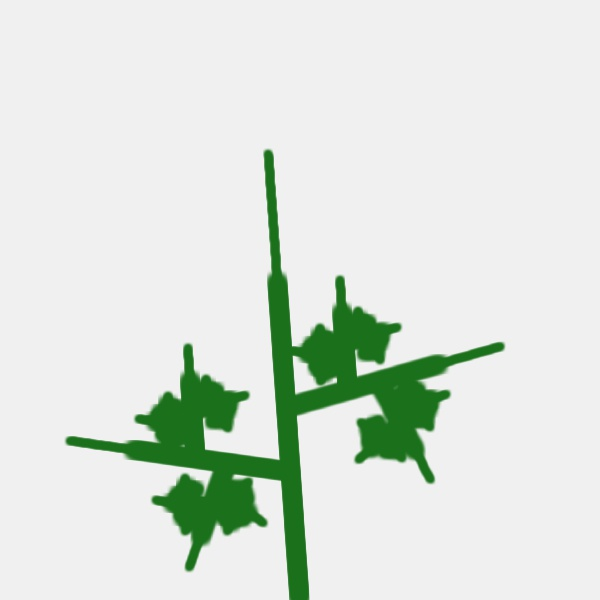
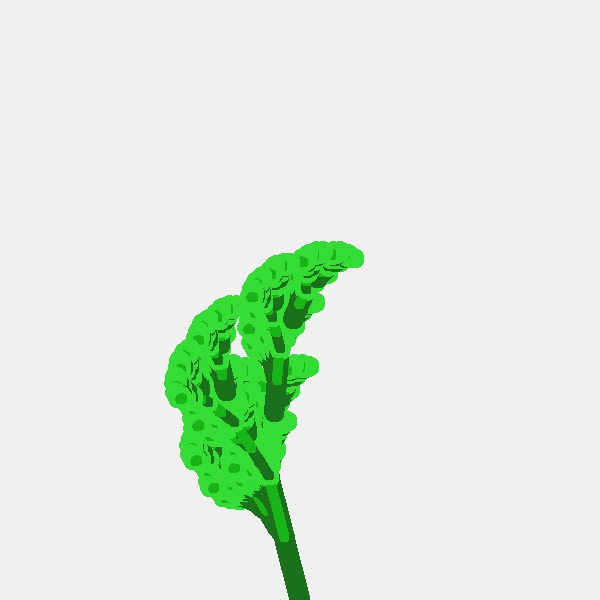
dynamically created brushes instead of png

Changed region(s): [[0.09, 0.24, 0.84, 0.99], [0.51, 0.96, 0.54, 0.99], [0.48, 0.99, 0.51, 1.0]]

diff --git a/site/htdocs/the-world/herbarium/index.php b/site/htdocs/the-world/herbarium/index.php
@@ -120,19 +120,24 @@ function drawPlant() {
 
 // load brush images:
 
-$brushSizes = 2;
-$brushColours = 4;
-for ($i=0;$i<$brushColours;$i++) {
-	for ($j=0;$j<$brushSizes;$j++) {
-		${'brushcol'.$i.'size'.$j} = imagecreatefrompng($_SERVER['DOCUMENT_ROOT'].'/images/herbarium/brushes/brush'.$i.'-'.$j.'.png');
+$brushSizes = array(20,10);
+$brushColours = array(array(27,113,27),array(24,180,24),array(48,220,48),array(54,220,54));
+for ($i=0;$i<count($brushColours);$i++) {
+	for ($j=0;$j<count($brushSizes);$j++) {
+	//	${'brushcol'.$i.'size'.$j} = imagecreatefrompng($_SERVER['DOCUMENT_ROOT'].'/images/herbarium/brushes/brush'.$i.'-'.$j.'.png');
+		${'brushcol'.$i.'size'.$j} = imagecreate($brushSizes[$j],$brushSizes[$j]);
+	$brushtrans = imagecolorallocate(${'brushcol'.$i.'size'.$j}, 0, 0, 0);
+	imagecolortransparent(${'brushcol'.$i.'size'.$j}, $brushtrans);
+	$thisColour = imagecolorallocate(${'brushcol'.$i.'size'.$j}, $brushColours[$i][0], $brushColours[$i][1], $brushColours[$i][2]);
+	imagefilledellipse(${'brushcol'.$i.'size'.$j}, ($brushSizes[$j]/2), ($brushSizes[$j]/2), $brushSizes[$j], $brushSizes[$j], $thisColour);
 	}
 }
 
 	// generate command string:
 	$iterations = 6;
 	$axiom = "X";
-	//$allPossibleRules = array(array("X"=>"C0F-[C2[X]+C3X]+S1C1F[S0C3+FX]-X","F"=>"FF"));
-	$allPossibleRules = array(array("X"=>"S0FF[--X]F[++X]FFS1FF","F"=>"FF"));
+	$allPossibleRules = array(array("X"=>"C0F-[C2[X]+C3X]+S1C1F[S0C3+FX]-X","F"=>"FF"));
+	//$allPossibleRules = array(array("X"=>"S0FF[--X]F[++X]FFS1FF","F"=>"FF"));
 	
 	$rules = $allPossibleRules[array_rand($allPossibleRules)];
 	$angle = rand(12,40);
@@ -208,8 +213,8 @@ for ($i=0;$i<$brushColours;$i++) {
 	imagejpeg($plantCanvas,$_SERVER['DOCUMENT_ROOT'].'/images/herbarium/output.jpg',95);
 	imagedestroy($plantCanvas);
 
-for ($i=0;$i<$brushColours;$i++) {
-	for ($j=0;$j<$brushSizes;$j++) {
+for ($i=0;$i<count($brushColours);$i++) {
+	for ($j=0;$j<count($brushSizes);$j++) {
 	imagedestroy(${'brushcol'.$i.'size'.$j});
 	}
 }
